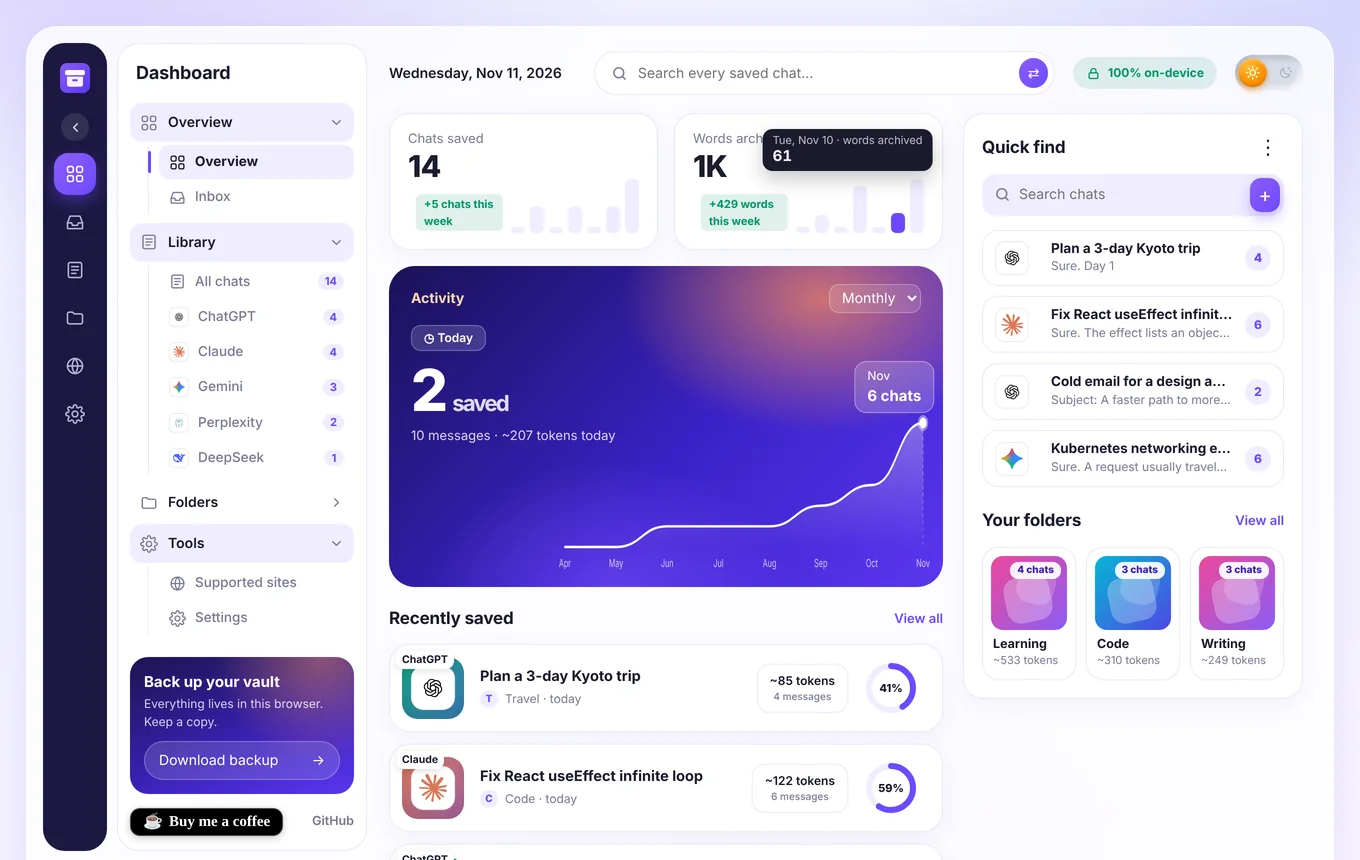
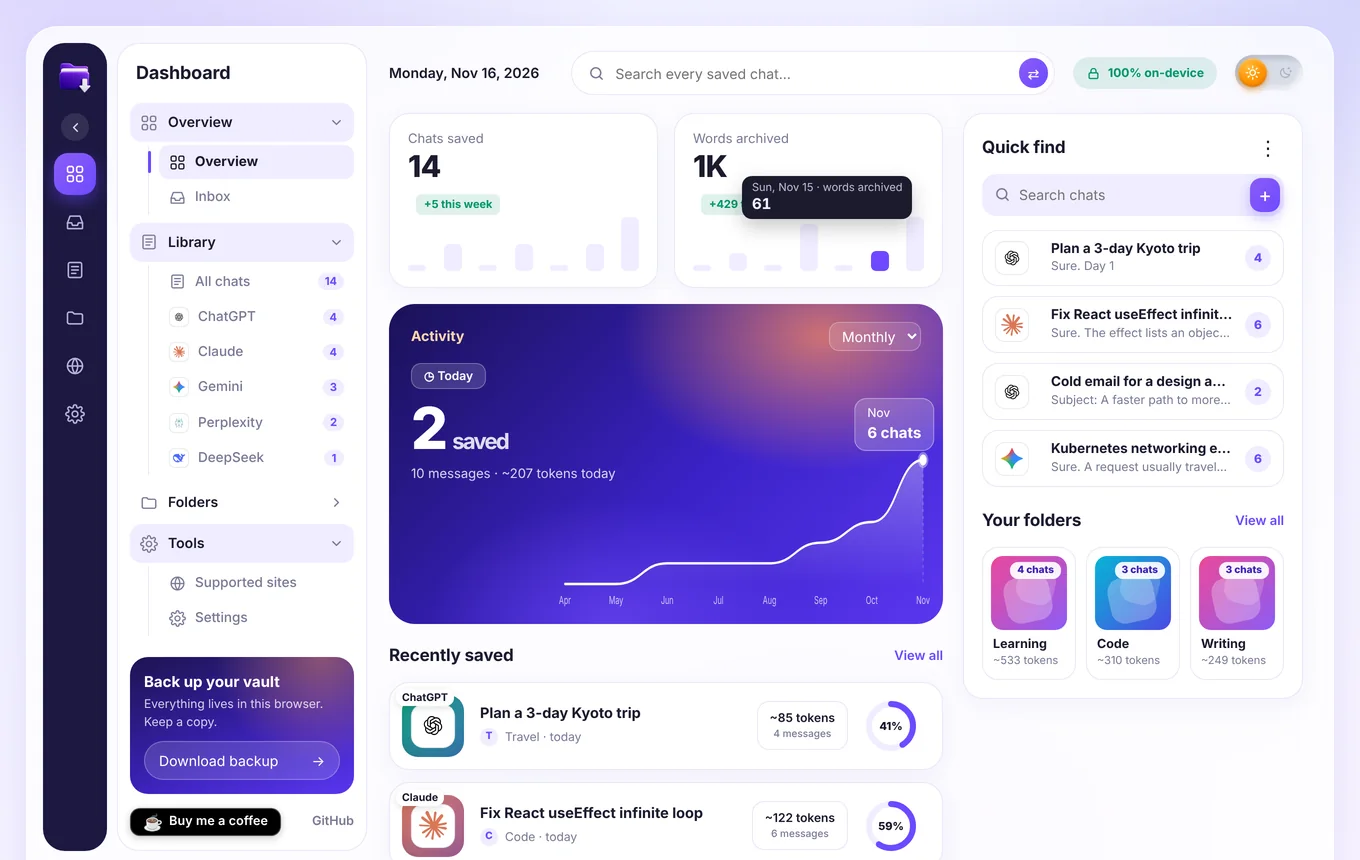
Add files via upload

diff --git a/docs/mock.js b/docs/mock.js
@@ -42,7 +42,7 @@ function shell(){
  var rail=[['dash','grid'],['inbox','inbox'],['lib','doc'],['folders','folder'],['sites','globe'],['set','gear']].map(function(r){return '<button data-go="'+r[0]+'" class="'+(v===r[0]||(v==='export'&&r[0]===S.ex.src_rail)?'on':'')+'" aria-label="'+r[0]+'">'+I(r[1])+(r[0]==='inbox'&&inbox?'<span class="dot"></span>':'')+'</button>'}).join('');
  var sites=['ChatGPT','Claude','Gemini','Perplexity','DeepSeek'].map(function(s){return '<button class="it'+(v==='lib'&&S.site===s?' on':'')+'" data-site="'+s+'"><i class="sdot" style="background:'+COL[s]+'"></i>'+s+'<b>'+cnt(s)+'</b></button>'}).join('');
  var title={dash:'Dashboard',inbox:'Inbox',lib:'Library',folders:'Folders',sites:'Supported sites',set:'Settings',export:'Export'}[v];
- return '<div class="rail"><span class="lg">'+I('logo')+'</span>'+rail+'</div>'+
+ return '<div class="rail"><span class="lg"><img src="assets/logo.png" alt="" width="30" height="30"></span>'+rail+'</div>'+
  '<aside class="side"><h3>'+title+'</h3>'+
  '<button class="grp'+(S.open.ov?'':' shut')+'" data-open="ov">Overview'+I('chev')+'</button><div class="sub"'+(S.open.ov?'':' hidden')+'>'+nav('','grid','Overview','dash')+nav('','inbox','Inbox','inbox',inbox?1:null)+'</div>'+
  '<button class="grp'+(S.open.lib?'':' shut')+'" data-open="lib">Library'+I('chev')+'</button><div class="sub"'+(S.open.lib?'':' hidden')+'><button class="it'+(v==='lib'&&!S.site?' on':'')+'" data-site="">'+I('doc')+'All chats<b>'+chats.length+'</b></button>'+sites+'</div>'+

diff --git a/docs/mock.css b/docs/mock.css
@@ -5,7 +5,7 @@
 .mk *{box-sizing:border-box}.mk button,.mk input,.mk select{font:inherit;color:inherit}
 .mk svg{width:16px;height:16px;fill:none;stroke:currentColor;stroke-width:1.8;stroke-linecap:round;stroke-linejoin:round;flex:none}
 .mk .rail{background:var(--rail);border-radius:14px;display:flex;flex-direction:column;align-items:center;gap:8px;padding:10px 0;color:#b9b2ee}
-.mk .rail .lg{width:28px;height:28px;border-radius:9px;background:linear-gradient(135deg,#7c5cff,#5b3bff);display:grid;place-items:center;color:#fff;margin-bottom:6px}
+.mk .rail .lg{width:34px;height:34px;display:grid;place-items:center;margin-bottom:4px}.mk .rail .lg img{width:34px;height:34px;object-fit:contain;filter:drop-shadow(0 2px 6px rgba(139,92,246,.6))}
 .mk .rail button{width:32px;height:32px;border-radius:10px;border:0;background:none;display:grid;place-items:center;color:inherit;position:relative;transition:background .2s,color .2s}
 .mk .rail button:hover{background:rgba(255,255,255,.1);color:#fff}.mk .rail button.on{background:var(--pri2);color:#fff;box-shadow:0 4px 12px rgba(109,74,255,.5)}
 .mk .rail .dot{position:absolute;top:5px;right:5px;width:7px;height:7px;border-radius:50%;background:#ff5a6a}

diff --git a/docs/style.css b/docs/style.css
@@ -27,7 +27,7 @@ h1, h2, h3 { line-height: 1.12; letter-spacing: -.02em; margin: 0; }
 .nav { position: sticky; top: 0; z-index: 50; background: color-mix(in srgb, var(--bg) 82%, transparent); backdrop-filter: blur(14px); -webkit-backdrop-filter: blur(14px); border-bottom: 1px solid var(--line); }
 .nav .wrap { display: flex; align-items: center; gap: 26px; height: 66px; }
 .logo { white-space: nowrap; flex: none; display: flex; align-items: center; gap: 10px; font-weight: 800; font-size: 20px; color: var(--ink); text-decoration: none; letter-spacing: -.02em; }
-.logo img { width: 30px; height: 30px; border-radius: 8px; }
+.logo img { width: 36px; height: 36px; object-fit: contain; }
 .nav nav { display: flex; gap: 18px; margin-left: 14px; }
 .nav nav a { white-space: nowrap; color: var(--muted); text-decoration: none; font-weight: 600; font-size: 14.5px; }
 .nav nav a:hover { color: var(--ink); }

diff --git a/docs/index.html b/docs/index.html
@@ -9,7 +9,10 @@
 <meta property="og:description" content="PDF, Word, image, Markdown, HTML, JSON, text, Notion and Obsidian. A private on-device library. No account, no server, no tracking.">
 <meta property="og:image" content="assets/video-poster.jpg">
 <meta name="theme-color" content="#120f2b">
-<link rel="icon" href="assets/favicon.png">
+<link rel="icon" href="assets/favicon.ico" sizes="any">
+<link rel="icon" type="image/png" sizes="32x32" href="assets/favicon-32.png">
+<link rel="icon" type="image/png" sizes="16x16" href="assets/favicon-16.png">
+<link rel="apple-touch-icon" href="assets/apple-touch-icon.png">
 <link rel="stylesheet" href="style.css">
 <link rel="stylesheet" href="switch.css">
 <link rel="stylesheet" href="cursor.css">

diff --git a/docs/privacy.html b/docs/privacy.html
@@ -5,7 +5,10 @@
 <meta name="viewport" content="width=device-width,initial-scale=1">
 <title>Privacy policy · Archiv AI</title>
 <meta name="description" content="Archiv AI privacy policy: what the extension reads, what it stores on your device, and the one case where data leaves it.">
-<link rel="icon" href="assets/favicon.png">
+<link rel="icon" href="assets/favicon.ico" sizes="any">
+<link rel="icon" type="image/png" sizes="32x32" href="assets/favicon-32.png">
+<link rel="icon" type="image/png" sizes="16x16" href="assets/favicon-16.png">
+<link rel="apple-touch-icon" href="assets/apple-touch-icon.png">
 <link rel="stylesheet" href="style.css">
 <link rel="stylesheet" href="switch.css">
 <link rel="stylesheet" href="cursor.css">
